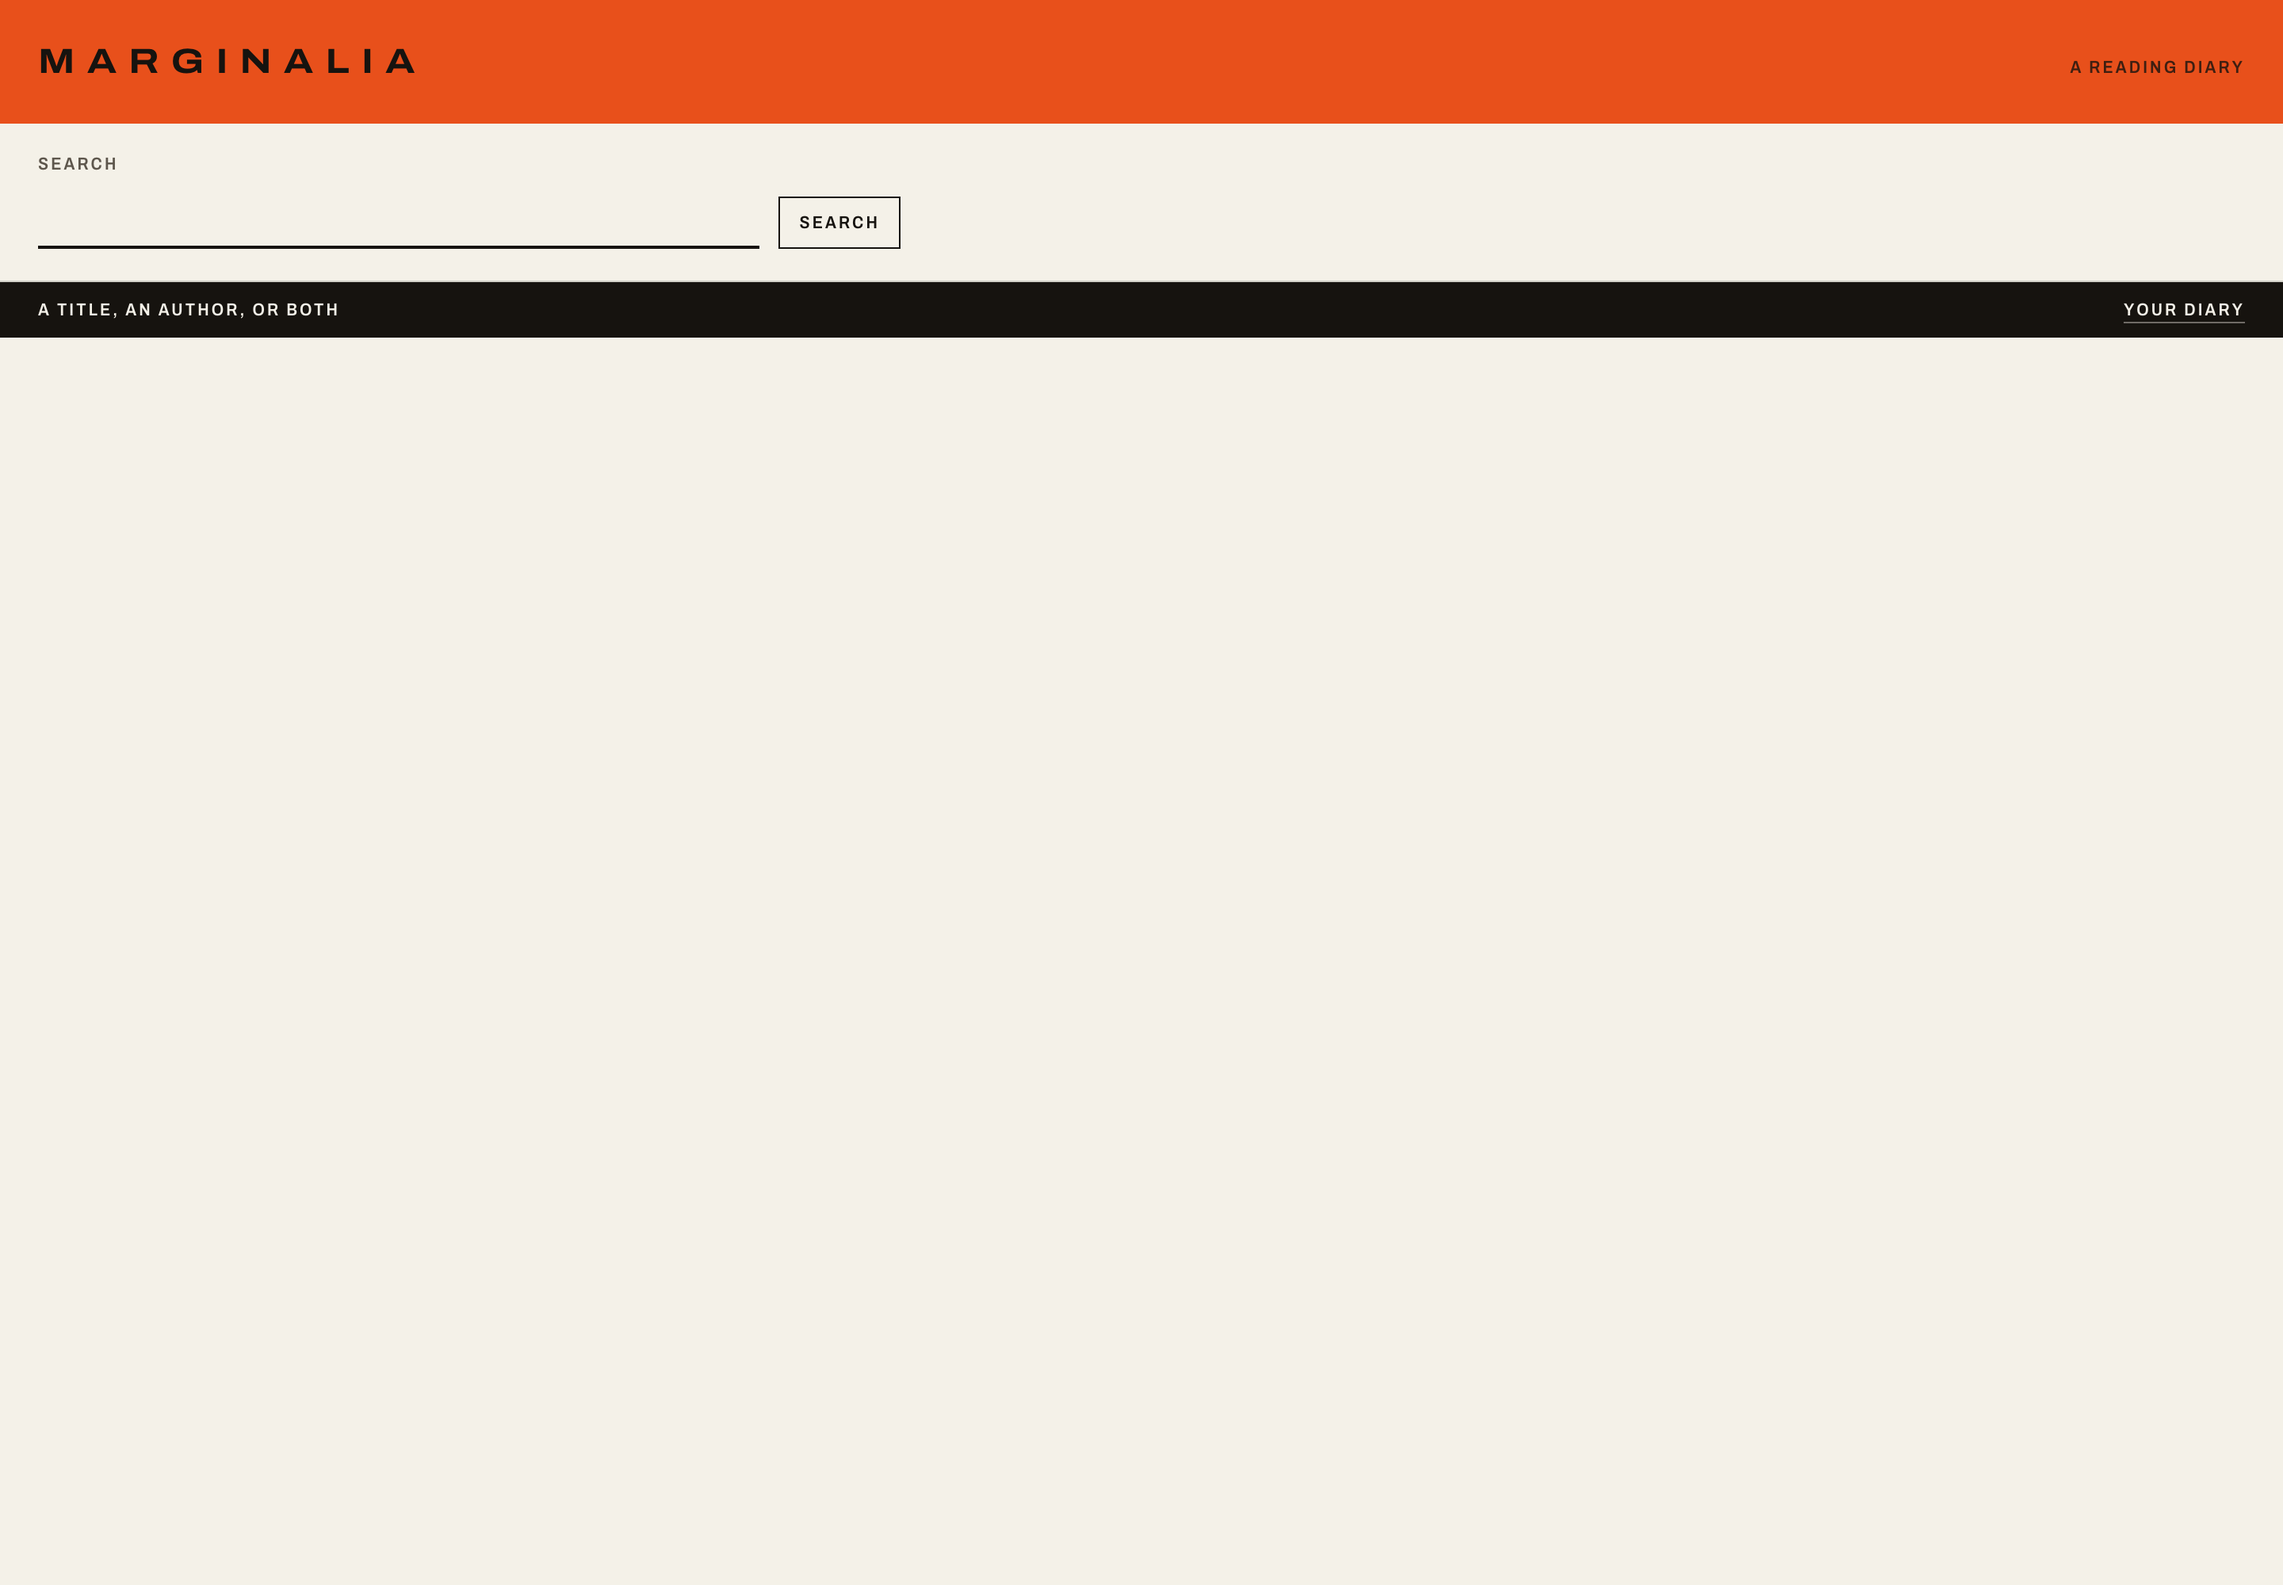
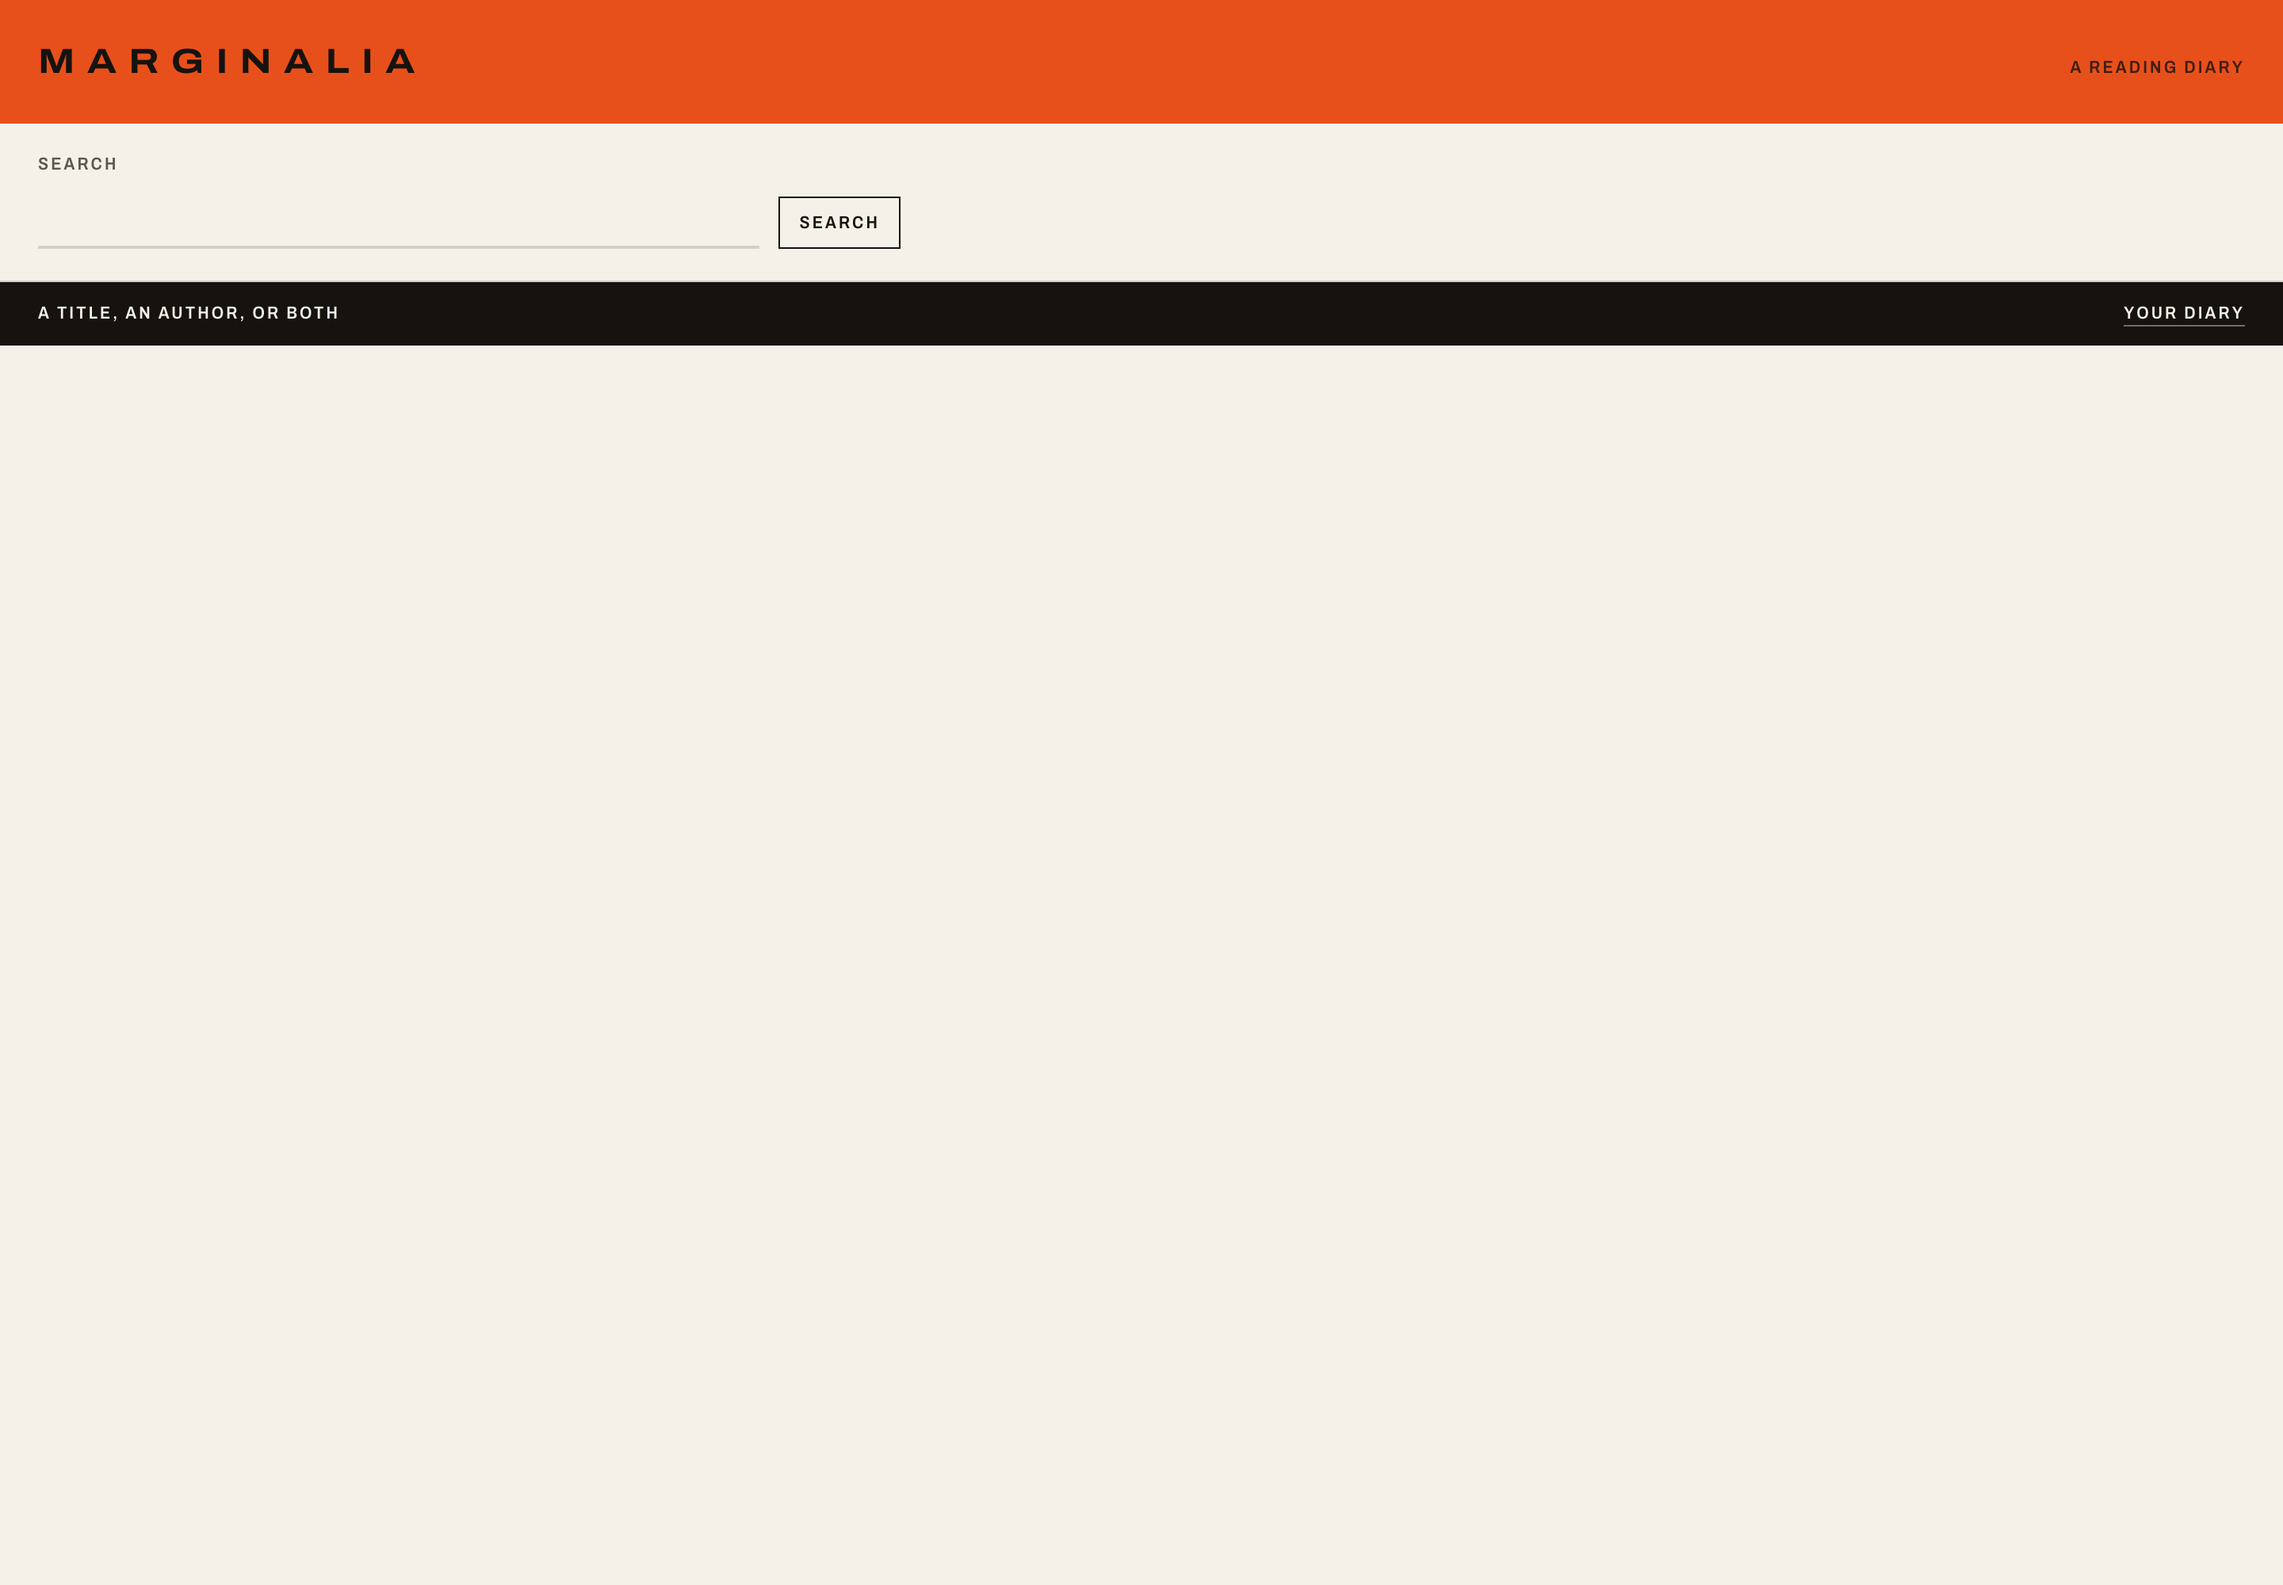
fix(ui): clear the two Sonar code smells on search (MRG-013)
S9379: drop autoFocus from the search field. iOS Safari ignores it
without a tap, so the phone gains nothing, and it moves a screen reader
past the page's context. The blank-state e2e and captures follow.

S6819: the record band's state line is an <output>, which carries the
status role natively, instead of a <p role="status">.

Claude-Session: https://claude.ai/code/session_017F6wdL9N9jvB1zYHLrBJWG

Changed region(s): [[0.0, 0.186, 1.0, 0.217]]

diff --git a/e2e/search.spec.ts b/e2e/search.spec.ts
@@ -14,7 +14,7 @@ test.describe("search", () => {
   test("a blank search waits in the field", async ({ page }) => {
     await page.goto("/dev/search", { waitUntil: "networkidle" });
 
-    await expect(page.getByRole("searchbox", { name: "Search" })).toBeFocused();
+    await expect(page.getByRole("searchbox", { name: "Search" })).toHaveValue("");
     await expect(page.getByText("A title, an author, or both")).toBeVisible();
     await expect(page.locator("ol.shelf-grid")).toHaveCount(0);
   });
@@ -93,10 +93,6 @@ test.describe("search", () => {
       await expect(first).toBeFocused();
       const outline = await first.evaluate((el) => getComputedStyle(el).outlineStyle);
       expect(outline).not.toBe("none");
-    });
-
-    test("does not take focus, so a phone keyboard stays closed over results", async ({ page }) => {
-      await expect(page.getByRole("searchbox", { name: "Search" })).not.toBeFocused();
     });
 
     test("the page does not scroll sideways", async ({ page }) => {

diff --git a/src/components/SearchResults.tsx b/src/components/SearchResults.tsx
@@ -84,10 +84,10 @@ function RecordBand({
     <div className="flex items-center justify-between gap-4 bg-ink px-4 py-3 text-paper sm:px-6">
       {/* "First 20 — add the author to narrow it" does not fit beside the
           link at 390, so it wraps as balanced lines with real leading rather
-          than orphaning its last word at the band voice's line-height of 1. */}
-      <p role="status" className="band-label leading-[1.4]! text-balance">
-        {text}
-      </p>
+          than orphaning its last word at the band voice's line-height of 1.
+          <output> carries the status role natively (Sonar S6819), so the
+          count is announced when a search lands. */}
+      <output className="band-label leading-[1.4]! text-balance">{text}</output>
       <Link
         href={diaryHref}
         // The global focus ring is ink, which vanishes on this band.

diff --git a/src/components/SearchField.tsx b/src/components/SearchField.tsx
@@ -46,9 +46,9 @@ export function SearchField({
             name="q"
             type="search"
             defaultValue={query}
-            // Only a blank search takes focus: on a results page it would open
-            // the phone keyboard straight over the covers the reader came for.
-            autoFocus={!query}
+            // No autoFocus (Sonar S9379): it moves a screen reader past the
+            // page's context, and iOS Safari ignores it without a tap anyway,
+            // so the phone — where capture mostly happens — gains nothing.
             maxLength={MAX_QUERY_LENGTH}
             enterKeyHint="search"
             autoComplete="off"

diff --git a/.impeccable/surfaces/src-app-search-page-tsx.md b/.impeccable/surfaces/src-app-search-page-tsx.md
@@ -39,7 +39,9 @@ looks like their shelf, and take it.
 
 FIRST VIEWPORT: Wordmark band edge to edge. Beneath it, the search field row:
 "Search" label, the query at the field step on a ruled line capped at 34rem,
-autofocused, with an outline "Search" button beside it. Then a full-width ink
+with an outline "Search" button beside it. Not autofocused: dropped for Sonar
+S9379 after review — iOS ignores it without a tap, and it moves a screen
+reader past the page's context. Then a full-width ink
 band carrying the count ("5 books" / "First 20 — add the author to narrow it").
 Then the shelf grid of result cells, 2 columns at 390, 6 at 1440, starting
 immediately below the band. Blank query: the field and one line of guidance,
